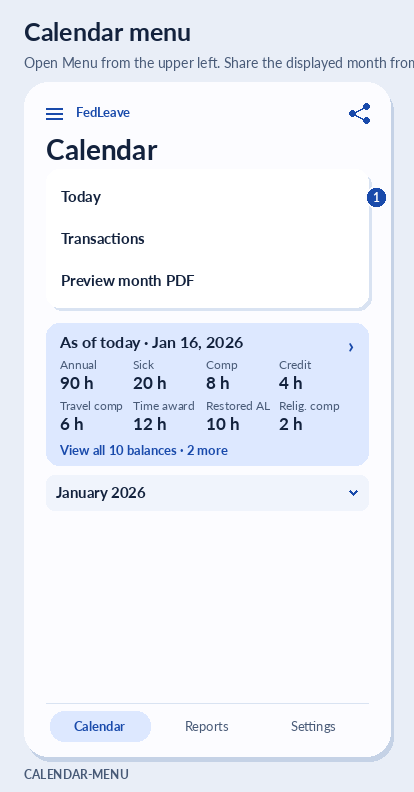
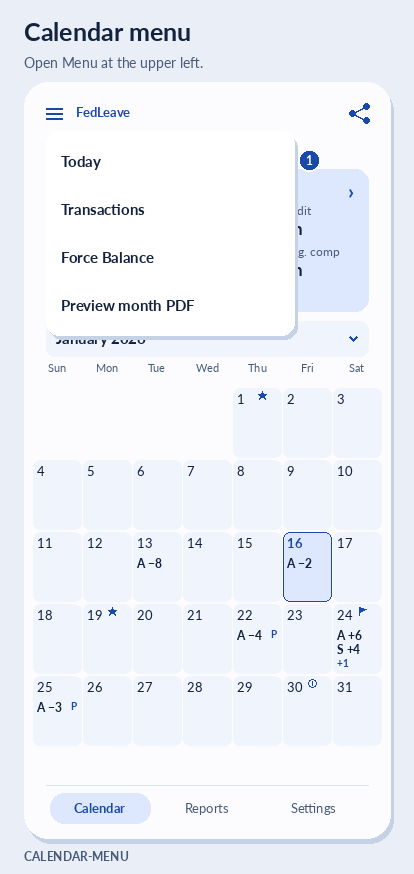
Add Force Balance to the Android Calendar dropdown specification
Show the four menu commands in order in an anchored overlay with full-size touch targets. Route Force Balance from Calendar and leave-year maintenance through the standard Android date picker, category and target form, and a confirmation review.

Define exact dated adjustment, zero-target, same-date replacement, stale review and original-history behavior. Add annotated interaction mockups and update the ledger acceptance cases.

Explain the distinct manual payroll review flow in the Settings chapter so the owner can decide whether to keep the action.

diff --git a/android/specification/artwork/mockups/render.py b/android/specification/artwork/mockups/render.py
@@ -108,6 +108,8 @@ class Screen:
                 if label == nav:
                     self.box(center - 50, y + 3, center + 50, y + 33, SELECTED, 14)
                 self.text(center, y + 18, label, 13, PRIMARY if label == nav else MUTED, label == nav, "mm")
+        if menu := self.screen.get("dropdown_menu"):
+            self.menu_panel(menu)
         self.text(self.x, self.bottom + 11, self.screen["id"], 12, MUTED, bold=True)
 
     def toolbar(self, actions):
@@ -204,18 +206,16 @@ class Screen:
         self.cursor += 47
 
     def menu_panel(self, item):
-        top = self.cursor
-        entries = item["entries"]
-        height = len(entries) * 42 + 12
-        self.box(self.left + 3, top + 3, self.inner_right + 3, top + height + 3, LINE, 13)
-        self.box(self.left, top, self.inner_right, top + height, "#FFFFFF", 13)
-        for index, label in enumerate(entries):
-            y = top + 6 + index * 42
-            if label == item.get("highlight"):
-                self.box(self.left + 6, y, self.inner_right - 6, y + 40, SELECTED)
-            self.text(self.left + 15, y + 21, label, 15, INK, True, "lm")
-        self.mark(item.get("note"), top + 28)
-        self.cursor += height + 16
+        top = self.top + 49
+        right = self.left + min(248, self.width)
+        row_height = 48
+        height = len(item["entries"]) * row_height + 12
+        self.box(self.left + 3, top + 4, right + 3, top + height + 4, "#C5D2E6", 13)
+        self.box(self.left, top, right, top + height, "#FFFFFF", 13)
+        for index, label in enumerate(item["entries"]):
+            center_y = top + 6 + (index + 0.5) * row_height
+            self.text(self.left + 15, center_y, label, 15, INK, True, "lm")
+        self.mark(item.get("note"), top + 29, x=right + 15)
 
     def document_preview(self, item):
         with Image.open(MOCKUPS / item["file"]) as source:

diff --git a/android/specification/verification/acceptance-tests.md b/android/specification/verification/acceptance-tests.md
@@ -60,7 +60,7 @@ Substitute each date in the expected-results table for the balance command. The 
 | `T-CAL-BAL-08` | At normal text size use the ten values on the Calendar mockup. Check the preview, tap the card, and scroll to Paid parental leave and FMLA remaining. Confirm Jan 24, cancel a different choice, and return to Calendar. Repeat with exactly eight values, one unavailable value, and large text on a compact handset. | Eight labeled values appear in two rows at the reference size and **View all 10 balances · 2 more** is spoken and visible. All ten values appear in one scrollable list. The card and list match the confirmed cutoff and Cancel preserves it. With exactly eight visible there is no overflow count. Larger text preserves full amounts and exposes any additional hidden count. |
 | `T-CAL-NAV-01` | Select January 13 in the balance picker, navigate to February in the main calendar, and choose an editing day. | The calendar follows the navigation. The panel continues showing January 13 and its figures until the user confirms another balance date or uses **Menu > Today**. |
 | `T-CAL-MARK-01` | Seed the Calendar fixture and local 2026 holidays. Inspect Jan 1 and 19, Jan 24 and Jan 30 in the grid and date picker. Browse to Jan 9, 2027 and open day detail. Check default and large text, TalkBack and the three marker visibility settings. In an isolated developer fixture put a synthetic holiday on Jan 9 and set payday offset to zero to produce all four events on the same day. | Each of the four shapes is distinct and appears to the right of the date. Jan 9 has both closing markers, shows the event names and leaves the balance cutoff unchanged. All four fit in the collision fixture. Their spoken descriptions stay ordered, day actions stay reachable, and markers are independent of extra leave entries. The main Calendar hides only the disabled event and equivalent accessible label. The picker always identifies pay-period ends and their shortcuts, including when that type is hidden in the main Calendar. |
-| `T-CAL-MENU-01` | Browse to a different month and choose a dated balance. Open and dismiss the upper-left menu, then reopen it and use Today. | The menu shows Today, Transactions and Preview month PDF. Dismissal preserves month and cutoff. Today resets both. Menu remains readable and actionable with larger text and TalkBack. |
+| `T-CAL-MENU-01` | Browse to a different month and choose a dated balance. Open the upper-left menu. Dismiss it with outside tap and system Back, then reopen it and use Today. | The menu shows Today, Transactions, Force Balance and Preview month PDF. The anchored dropdown overlays Calendar and preserves month and cutoff when dismissed. Focus returns to Menu. Today resets both. Menu remains readable and actionable with larger text and TalkBack. |
 | `T-CAL-SHARE-01` | Display January with Today fixed to Jan 16. Set the balance card to Jan 13 and tap the top-right Share icon. Verify that this tap generates the PDF and opens the system Sharesheet immediately after preparation. Open the attachment in a test receiver. On a handset with compatible email and messaging targets, inspect the attachment in each app's draft using synthetic data. Compare the received bytes with the generated file and compare the rendered page with the desktop PDF from the same fixture and page size. Repeat from the optional preview, with a different month, and with cancellation or a simulated render failure. | One tap opens the native Sharesheet with one readable `application/pdf` attachment named `fedleave-2026-01.pdf` for January. No format, destination, or print dialog is shown by FedLeave. The receiving app opens the same bytes that FedLeave generated. The landscape page matches the desktop grid, markers, pay-period tables, Today balances of 90 h annual and 20 h sick, applicable year-end figures, and abbreviations. The other month shares its own report. Cancellation or failure preserves both selections and ledger bytes. A failed render offers Retry without opening the Sharesheet. |
 
 After the existing-year review and navigation cases, compare a snapshot of the canonical datastore before and after. The date picker and balance calculations leave its contents intact. [Calendar requirements](../chapters/01-calendar/01-02-balances.md#requirements)
@@ -95,7 +95,7 @@ Create variants using the reproduction instructions in the Calendar section. Kee
 | `T-CAL-DAY-02` | From the Calendar fixture, add an individual 1 h planned annual entry on Jan 22 and a separate 2 h denied entry on the same date. Check Jan 21 and Jan 22 and inspect history. | Jan 21 remains 90 h annual. Jan 22 projects 85 h. All three Jan 22 rows are identifiable by status and ID. The denied row does not affect the balance. Cancelled and legacy voided rows are also ineffective. |
 | `T-CAL-HISTORY-01` | Add genuine rows on Jan 9 and Jan 10, 2027 in the adjacent Calendar ledgers. Open history for exactly those dates. Inspect row details and sorting, then choose an empty range and an inverted range. | Both boundary dates appear once with their transactions in initial date/ID order. Details retain source, status, comment and ID. System activity is labeled. Empty results are explicit and an invalid range is rejected. History writes nothing. |
 | `T-CAL-TX-01` | In the Editable day fixture correct the 1 h annual row to 2 h by its ID and reason. Try a date outside its leave year. Cancel deletion, then confirm deleting the corrected record. | The selected ID survives correction and annual changes from 89 h to 88 h. The other annual ID remains at 2 h. An out-of-year correction or cancelled deletion preserves the files. Confirmed deletion removes only the chosen row and gives 90 h annual. Generated carryover rows lead to their source. |
-| `T-CAL-FORCE-01` | Start with 20 h annual and zero annual accrual or use. Adjust Feb 1 to 5 h with a reason, then repeat for 8 h and 20 h. Try a PPL target. | The first adjustment records a 15 h decrease. The second leaves one 12 h decrease and 8 h as of Feb 1. The third yields 20 h with no forced row. PPL requires its own dated workflow. |
+| `T-CAL-FORCE-01` | Start with 20 h annual and zero annual accrual or use. Open **Menu → Force Balance**, choose Feb 1 in the Android date picker, choose annual and enter 5 h and a reason. Cancel one review, then apply and repeat for 8 h and 20 h. Test the Settings route, an invalid date, invalid hours, disabled PPL and FMLA, and an edit that makes a review stale. Repeat a zero target on an accrual day. | The first confirmed adjustment records a 15 h decrease. The second leaves one 12 h decrease and 8 h as of Feb 1. The third yields 20 h with no forced row. A zero target is exact even with due accrual. Jan 31 and unrelated IDs, entries and comments remain intact. Both routes use the same review. Cancel and invalid or stale input preserve the ledger. The Calendar returns to its previous month and balance cutoff. |
 | `T-YEAR-ACC-01` | In the Accrual fixture set annual accrual to 6 h effective Jul 12, 2026. Verify Jul 11, Jul 25, and Jan 9, 2027. Apply the same rate change again and query a copy with missing automatic rows. In a fresh copy use the same editor to change sick to 3 h effective Jul 12. | Jul 11 earns 4 h while Jul 25 and Jan 9 earn 6 h annual after the annual change. The change updates 13 annual rows and the year closes at annual 140 h and sick 124 h. The sick-only copy closes at annual 114 h and sick 111 h. Repeat leaves one effective change for that category and date. Dated reads synthesize missing accruals without writing JSON. |
 | `T-YEAR-CAP-01` | With the Carryover fixture and Today Jan 16, add an Oct 1 planned 8 h annual use. Check Today and open the year-end forecast. Compare with desktop `use-or-lose --year 2026`. | Today shows 280 h annual. Forecast through Jan 9, 2027 shows 272 h annual, 240 h cap and projected carryover, and 32 h potentially lost. Both date labels remain visible in their respective views. The forecast writes nothing. |
 | `T-EXP-01` | Use an 8 h expiring comp lot with July 1 last eligible date. Query July 1 and 2 under a forfeiture rule, then under a warning rule. In a separate fixture allocate 6 h use among same-dated lots of 4 and 5 h with the same deadline and IDs in that order. Use a nonexpiring award in another copy and trigger an urgent reminder twice on the same day. | On July 1 the lot has 8 h and can be used. Forfeiture removes the 8 h on July 2. Warning-only still reports the left-over quantity without a forfeiture entry, and none of the expired hours are available. Allocation consumes 4 h then 2 h, leaving 3 h. Nonexpiring awards yield no upcoming deadline. Repeated reads preserve the ledger. The urgent reminder appears once on the same local date. |

diff --git a/android/specification/verification/feature-parity.md b/android/specification/verification/feature-parity.md
@@ -16,7 +16,7 @@ This matrix compares Android with the [pinned desktop build](../specification.md
 | `CAL-BAL-08` | The desktop window has room for more balance categories. | Preview eight and give one-tap access to the full scrollable list and date controls. | [BALANCES-TODAY](../artwork/mockups/calendar-compact-main.png), [BALANCES-ALL](../artwork/mockups/calendar-compact-main.png) | [T-CAL-BAL-08](acceptance-tests.md#calendar-acceptance-cases) | [Balance ordering and overflow](../chapters/01-calendar/01-02-balances.md#preview-and-full-list). |
 | `CAL-NAV-01` | **Previous**, **Next**, and month selection browse the calendar. Only the date selector and **Today** change the selected balance date. | Calendar navigation preserves the selected balance date. | [CALENDAR-MONTH](../artwork/mockups/calendar-compact-main.png), [CALENDAR-MONTH-SELECTOR](../artwork/mockups/calendar-compact-month.png), [BALANCES-DATED](../artwork/mockups/calendar-date-states.png) | [T-CAL-NAV-01](acceptance-tests.md#calendar-acceptance-cases) | [Selected Calendar](../chapters/01-calendar/01-01-main-screen.md). |
 | `CAL-MARK-01` | Desktop Calendar distinguishes holidays, paydays and period ends and stores the leave-year closing date. | Place four distinct event shapes to the right of the date. Preserve concurrent markers and give their full descriptions in the editor and TalkBack. | [CALENDAR-MONTH](../artwork/mockups/calendar-compact-main.png), [CALENDAR-YEAR-END](../artwork/mockups/calendar-markers.png), [CALENDAR-DAY-MARKERS](../artwork/mockups/calendar-markers.png), [BALANCE-PICKER-DAY-LIST](../artwork/mockups/calendar-compact-month.png) | [T-CAL-MARK-01](acceptance-tests.md#calendar-acceptance-cases) | [Marker specification](../chapters/01-calendar/01-04-date-markers.md). |
-| `CAL-MENU-01` | Desktop Calendar groups navigation and report commands in menus and shows a marker legend. | A top-left menu opens Today, Transactions and month PDF preview. | [CALENDAR-MENU](../artwork/mockups/calendar-menus.png) | [T-CAL-MENU-01](acceptance-tests.md#calendar-acceptance-cases) | — |
+| `CAL-MENU-01` | Desktop Calendar groups navigation and report commands in menus and shows a marker legend. | A top-left menu opens Today, Transactions, Force Balance and month PDF preview. | [CALENDAR-MENU](../artwork/mockups/calendar-menus.png) | [T-CAL-MENU-01](acceptance-tests.md#calendar-acceptance-cases) | — |
 | `CAL-SHARE-01` | Desktop Calendar's **Save Month as PDF** prints the displayed month through its landscape report renderer. | The top-right Share icon generates that calendar PDF and sends it as an attachment through the native Sharesheet. | [CALENDAR-PDF-PREVIEW](../artwork/mockups/calendar-pdf-share.png), [CALENDAR-PDF-SHARE](../artwork/mockups/calendar-pdf-share.png) | [T-CAL-SHARE-01](acceptance-tests.md#calendar-acceptance-cases) | [Desktop PDF reference](../chapters/01-calendar/01-05-menu-and-pdf.md#share-the-displayed-month). |
 
 ### Desktop evidence for these rows
@@ -41,7 +41,7 @@ The [ledger requirements](../chapters/02-ledger/02-01-ledger-and-leave-years.md)
 | `CAL-DAY-02` | The desktop CLI can record individual transactions with direction and status. | Add or schedule a separate entry from a date. | [ENTRY-ADD](../artwork/mockups/calendar-edit.png) | [T-CAL-DAY-02](acceptance-tests.md#ledger-and-leave-year-acceptance) | — |
 | `CAL-HISTORY-01` | Calendar's **View Leave Transactions** filters a sortable listing by inclusive date range across years. | Phone-sized list with date-range controls and transaction details. | [TRANSACTIONS](../artwork/mockups/calendar-history.png), [TRANSACTION-DETAIL](../artwork/mockups/calendar-history.png) | [T-CAL-HISTORY-01](acceptance-tests.md#ledger-and-leave-year-acceptance) | Sorting control placement. |
 | `CAL-TX-01` | The desktop CLI corrects one transaction in place or deletes it using the command named `void`. | Review and confirm correction or deletion of the selected record. | [TRANSACTION-DETAIL](../artwork/mockups/calendar-history.png), [TRANSACTION-CORRECT](../artwork/mockups/calendar-history.png), [TRANSACTION-DELETE](../artwork/mockups/calendar-history.png) | [T-CAL-TX-01](acceptance-tests.md#ledger-and-leave-year-acceptance) | — |
-| `CAL-FORCE-01` | **Force Leave Balance** writes a dated adjustment with an explanation. | Maintenance action that previews and applies the required difference. | [BALANCE-ADJUST](../artwork/mockups/settings-adjustments.png) | [T-CAL-FORCE-01](acceptance-tests.md#ledger-and-leave-year-acceptance) | — |
+| `CAL-FORCE-01` | **Force Leave Balance** writes a dated adjustment with an explanation. | Calendar menu and maintenance share a standard date picker, category and target form, and reviewed adjustment. | [FORCE-BALANCE-DATE](../artwork/mockups/calendar-force-balance-form.png), [FORCE-BALANCE-FORM](../artwork/mockups/calendar-force-balance-form.png), [FORCE-BALANCE-TYPES](../artwork/mockups/calendar-force-balance-review.png), [FORCE-BALANCE-REVIEW](../artwork/mockups/calendar-force-balance-review.png) | [T-CAL-FORCE-01](acceptance-tests.md#ledger-and-leave-year-acceptance) | — |
 | `YEAR-ACC-01` | **Change Accrual** changes annual rates by effective date. The core supports sick rates too. | Edit annual or sick rates in one reviewed flow. | [ACCRUAL-CHANGE](../artwork/mockups/settings-adjustments.png) | [T-YEAR-ACC-01](acceptance-tests.md#ledger-and-leave-year-acceptance) | — |
 | `YEAR-CAP-01` | The desktop Calendar and CLI show projected annual excess above the carryover cap. | Dated year-end forecast with annual cap and excess. | [YEAR-END-FORECAST](../artwork/mockups/settings-adjustments.png) | [T-YEAR-CAP-01](acceptance-tests.md#ledger-and-leave-year-acceptance) | Forecast placement on phone. |
 | `EXP-01` | **Expiring Leave Status** shows deadlines and lot usage guidance. Preferences set reminder thresholds. | Expiration list, lot details, and urgent in-app reminder. | [EXPIRATION-LIST](../artwork/mockups/settings-expiration.png), [LOT-DETAIL](../artwork/mockups/settings-expiration.png), [EXPIRATION-REMINDER](../artwork/mockups/settings-expiration.png) | [T-EXP-01](acceptance-tests.md#ledger-and-leave-year-acceptance) | — |

diff --git a/android/specification/chapters/06-delivery/06-02-implementation-milestones.md b/android/specification/chapters/06-delivery/06-02-implementation-milestones.md
@@ -12,12 +12,12 @@ Start each milestone or subset with a [self-contained implementation brief](../0
 | I02. Bridge packaging experiment | I01 | Build the smallest Python library call on ARM64 and the development emulator. Verify offline startup, native packaging, size and timings, and a dated balance with the desktop fixture. Confirm or revisit Chaquopy and the API floor. [Core experiment](../04-architecture/04-01-core-and-compatibility.md#proof-of-concept-exit-conditions) |
 | I03. Read-only core boundary | I02 | Extract the cohesive Calendar, period and balance operations behind the desktop adapters. Characterize extraction with fixed dates and golden outputs. Compare desktop CLI interfaces and run the existing tests. |
 | I04. Private JSON store | I02–I03 | Implement app-private storage, canonical schema reads, one writer and complete candidate recovery. Import fixture input through a developer test entry. Verify no mutation from a read, resume after interruption, and check update and process-restart behavior. [Storage](../04-architecture/04-02-device-storage.md) |
-| I05. Calendar navigation and dated balances | I03–I04 | Implement the Calendar main screen, bottom navigation, balance picker, menu and date markers, Today and period close, calendar day inspection, and unavailable feedback. I08, I09 and I15 connect the final editing, Transactions, and PDF actions respectively. Pass `T-CAL-BAL-01` through `08`, `T-CAL-NAV-01`, `T-CAL-MARK-01`, and `T-CAL-MENU-01`. |
+| I05. Calendar navigation and dated balances | I03–I04 | Implement the Calendar main screen, bottom navigation, balance picker, menu and date markers, Today and period close, calendar day inspection, and unavailable feedback. I08, I09, I10 and I15 connect editing, Transactions, Force Balance and PDF actions respectively. Pass `T-CAL-BAL-01` through `08`, `T-CAL-NAV-01`, `T-CAL-MARK-01`, and `T-CAL-MENU-01`. |
 | I06. First use and manual year setup | I04–I05 | Implement welcome, schedule, start-of-year balances and prompting for missing dates in I06-01. Add the Today choice, dated targets and desktop-compatible verification in I06-02. Require cancellation, exactly-once setup and midnight review cases. [Today setup brief](../../../implementation/briefs/I06-02-today-balances.md) |
 | I07. Carryover creation | I06 | Implement adjacent predecessor review, policy caps, fingerprint and validation for applying a new year. Verify time boundaries, stale previews, lots carried once and unchanged source ledgers. |
 | I08. Edits and individual entries | I04–I06 | Implement edit day and single entry including status, quarter-hour entry, confirmation, comment preservation, system-row protection, and draft recovery. Pass the day editing cases. |
 | I09. History and transaction corrections | I08 | Add inclusive date range, sorting, source and ID detail, and separate correction and deletion reviews. Verify unchanged unrelated IDs and generated records. |
-| I10. Maintenance and reconciliation | I07–I09 | Start with a linked-chain preview and recovery. In a separate checkpoint add opening repair, force balance and annual and sick accrual rates if the work needs a split. Verify reviewed generations and source updates with the ledger cases. |
+| I10. Maintenance and reconciliation | I07–I09 | Start with a linked-chain preview and recovery. In a separate checkpoint add opening repair, the shared Force Balance workflow from Calendar and maintenance, and annual and sick accrual rates if the work needs a split. Verify reviewed generations and source updates with the ledger cases. |
 | I11. Expirations and lot extensions | I07–I10 | Implement expiration list and thresholds, lot history, and eligible extensions. Verify inclusive deadlines, warning and disposition, and repeat reads. Link reminders to lot detail. |
 | I12. PPL, FMLA, and accounting preferences | I09–I11 | Implement grant/use and overlapping-window behavior, review additional FMLA, history and tour settings, and unknown capacity. Run the parental fixture cases with legacy compatibility. Split settings from parental flows if needed. |
 | I13. Report list, summary, Seasonality and Heatmap | I05, I09 | Implement report navigation, year selection and coherent data, then the date and category filters with accessible source details. Add the shared full-screen chart route as a separate I13 checkpoint. Pass `T-REP-EXPAND-01` for the delivered chart types and repeat it as I14 and I15 add chart families. Verify all three report families and late or cancelled results. Run the Seasonality half of `T-REP-HISTORY-01`. |

diff --git a/android/specification/chapters/01-calendar/01-06-force-balance.md b/android/specification/chapters/01-calendar/01-06-force-balance.md
@@ -1,0 +1,26 @@
+# Chapter 01.06 · Force Balance
+
+Use **Calendar → Menu → Force Balance** when you know the correct balance for one leave type on a date. The adjustment brings that date to the entered target while keeping the original clocking entries. **Settings → Accounting and leave years → Leave-year maintenance → Force Balance** opens the same form. [Calendar menu](01-05-menu-and-pdf.md#open-the-calendar-menu) · [Desktop command](../../../../src/fedleave/commands/forced_balance.py)
+
+![Android date picker and Force Balance form with leave type, current balance, target and reason](../../artwork/mockups/calendar-force-balance-form.png)
+
+| Callout | Interaction |
+| --- | --- |
+| 1–2 | Start with the normal Android Material date picker. Default the pending date to Today when it belongs to a valid ledger. Allow calendar browsing and standard date entry. Confirm with **OK**. Cancel leaves the previous date or returns to Calendar on first entry. Tapping **Effective date** in the form reopens the picker. |
+| 3–4 | Choose a balance-tracked leave type after selecting the date. Show the current balance as of that date. Enter the exact target in hours and give a reason. Keep the target blank until the user enters it. An explicit zero is valid. **Review adjustment** uses the selected date and type. |
+
+![Leave-type chooser and review with current and target balance, signed difference and explicit apply](../../artwork/mockups/calendar-force-balance-review.png)
+
+| Callout | Interaction |
+| --- | --- |
+| 1 | Selecting a leave type returns to the form and loads its dated balance. Cancel retains the prior choice. |
+| 2–3 | Show the selected year and date, current and target values, the increase or decrease to record and the reason. Explain that later balances can change. **Back to adjustment** retains the draft. **Apply adjustment** confirms the review once. |
+
+## Validate and publish the adjustment
+
+- Use the standard Material 3 modal date picker and convert its selected day to `LocalDate` before looking up the inclusive leave-year range. A date outside a valid existing year leaves the form open with an explanation. PPL, FMLA, and usage-only types are handled through their own records. Accept a finite, nonnegative target in the configured hour increment and a nonblank reason. Keep quotes and punctuation as ledger text. [Android date picker](https://developer.android.com/develop/ui/compose/components/datepickers)
+- `CAL-FORCE-01` uses a canonical read-only snapshot as of the effective date with all due accruals calculated in memory. Preview the current displayed balance, the target, and the signed difference that the app would store. On repeat, remove only the existing effective `forced-balance` row for that leave year, date and category from the candidate and calculate the new difference from the resulting unadjusted balance. Show the new stored difference and any replaced row if the check differs from the visible current-to-target change.
+- For a nonzero difference write one reconciled transaction with `source: forced-balance`, `direction: forced_increase` or `forced_decrease`, the absolute hour difference, the selected date, and the reason. When the target matches the unadjusted balance, remove the prior adjustment if it exists and create no new row. Preserve unrelated rows, IDs and comments. Show any expiration provenance or affected linked-year warning, and use the existing carryover review for downstream updates.
+- Preview and Cancel make no writes. Revalidate the reviewed store and target under the single writer before applying. A changed store requires a refreshed preview and confirmation. Verify the resulting dated balance before publishing a complete validated candidate. On failure keep the draft and ledger. On success show the confirmed date, leave type and balance, refresh the result and return to the initiating screen with its month and selected balance cutoff preserved. [Storage and recovery](../04-architecture/04-02-device-storage.md#write-and-recovery-model) · [Acceptance case](../../verification/acceptance-tests.md#ledger-and-leave-year-acceptance)
+
+The date picker mockup illustrates standard controls. Follow the native Android layout for the device and locale. Rebuild the two boards with `python android/specification/artwork/mockups/render.py android/specification/artwork/mockups/calendar-force-balance.json`.

diff --git a/android/specification/chapters/03-reports-data/03-03-data-and-settings-screens.md b/android/specification/chapters/03-reports-data/03-03-data-and-settings-screens.md
@@ -24,12 +24,19 @@ Settings groups week and display preferences, leave-year maintenance, holiday an
 
 ## Manual payroll review
 
+This workflow is for correcting or marking one existing ledger entry as verified after you compare it with a timecard or pay statement you have open elsewhere. You read the payroll record yourself and type the verified hours. The app uses only the entries already saved in FedLeave. It does not import statements, find payroll discrepancies automatically, or reconcile an entire pay period.
+
 ![Choose a stored transaction and review the manually entered change](../../artwork/mockups/settings-reconcile.png)
 
-| Callout | Interaction and states | Requirements |
-| --- | --- | --- |
-| 1 | Open **Reconcile entry** from a transaction or day. If several entries match, choose the exact entry. | `DATA-PAYROLL-01` |
-| 2–3 | Enter the revised hours and reason, then review the selected record before saving. Cancel returns to the caller without a write. | `DATA-PAYROLL-01` |
+The example shows two separate annual leave entries on January 13. Entry `20260113-001` records 2 h and entry `20260113-002` records 1 h. If your payroll record says the first entry should be 3 h, select `20260113-001`, enter **3 h** and give the reason. The review shows **2 h → 3 h** on that one record. After confirmation, that ID records 3 h and is marked reconciled, with your explanation. The second entry stays at 1 h. Total annual leave used that day changes from 3 h to 4 h, which reduces the dated annual balance by another hour.
+
+| Callout | What the screen shows |
+| --- | --- |
+| 1 | Open **Reconcile entry** from a transaction or day. When several entries share the selected date, leave type and direction, the list shows their individual IDs and recorded hours. Choose the one you can identify in your own records. |
+| 2 | Enter the exact verified hours and reason. The review shows the chosen date, leave type, record ID and a before-and-after comparison. |
+| 3 | **Save reconciliation** updates the selected row in place and marks it reconciled. The save keeps the record ID and the other entries. Cancel returns to the caller without changing the ledger. |
+
+**Decision for review.** Keep **Reconcile entry** as a dedicated action if payroll verification is a recurring task and the reconciled status helps you distinguish entries you checked. If the useful part is changing the hours on a known entry, **Correct entry** already covers that job. Use **Force Balance** when you trust the total on a date and want one adjustment while keeping the original entries. [Ordinary correction](../02-ledger/02-01-ledger-and-leave-years.md#edit-and-review-leave) · [Force Balance](../01-calendar/01-06-force-balance.md) · [Desktop reconciliation behavior](../../../../src/fedleave/commands/transactions.py#L456)
 
 ## Calendar, holidays, and reminders
 
@@ -60,12 +67,13 @@ Settings groups week and display preferences, leave-year maintenance, holiday an
 
 ## Opening balance, balance adjustment, and accrual
 
-![Starting balance correction, verified balance adjustment, accrual change, and projected annual use-or-lose](../../artwork/mockups/settings-adjustments.png)
+![Starting balance correction, the maintenance shortcut for Force Balance, accrual change, and projected annual use-or-lose](../../artwork/mockups/settings-adjustments.png)
 
 | Callout | Interaction and states | Requirements |
 | --- | --- | --- |
 | 1 | Compare old and revised opening in an independent year. A linked year routes to source or carryover review. | `YEAR-OPEN-01` |
-| 2–3 | Select the date and input the intended adjustment or accrual rate. The accrual editor accepts annual or sick. Review the effective date, applicable hours, and reason. Keep draft on failure and show the new calculation after save. | `CAL-FORCE-01`, `YEAR-ACC-01` |
+| 2 | **Force Balance** opens the same dated form and review as the Calendar menu. [Force Balance screens](../01-calendar/01-06-force-balance.md) | `CAL-FORCE-01` |
+| 3 | Choose an effective date and annual or sick accrual rate. Review the effective date, applicable hours, and reason. Keep the draft on failure. | `YEAR-ACC-01` |
 | 4 | Read the dedicated use-or-lose calculation with its forecast close, carryover cap and excess. It does not alter the data. | `YEAR-CAP-01` |
 
 ## Expiration and approved deadlines

diff --git a/android/implementation/briefs/milestone-inputs.md b/android/implementation/briefs/milestone-inputs.md
@@ -22,7 +22,7 @@ Use the [ledger acceptance tables](../../specification/verification/acceptance-t
 | I07 · Carryover | [Year setup and carryover](../../specification/chapters/02-ledger/02-01-ledger-and-leave-years.md#start-or-find-a-leave-year) · [Cross-year logic](../../../src/fedleave/cross_year.py) | `T-YEAR-CARRY-01`. Give the source identity, candidate year and fingerprint contract, category reductions, stale-preview behavior, and exact carried lots. The source ledger stays byte-identical. |
 | I08 · Day editing | [Editing](../../specification/chapters/02-ledger/02-01-ledger-and-leave-years.md#edit-and-review-leave) · [Desktop transactions](../../../src/fedleave/commands/transactions.py) | `T-CAL-DAY-01`, `T-CAL-DAY-02`. Bind the I05 day route. Name the read/replace/add operations and their eligible IDs. Verify precise amounts and comments, generated-row preservation and draft behavior on failure. |
 | I09 · History and corrections | [Editing and transaction history](../../specification/chapters/02-ledger/02-01-ledger-and-leave-years.md#edit-and-review-leave) · [Desktop history](../../../src/fedleave/history.py) | `T-CAL-HISTORY-01`, `T-CAL-TX-01`. Wire Transactions and the period range route, define the inclusive sorted snapshot, and verify each correction and deletion with IDs before and after. |
-| I10 · Reconciliation and adjustments | [Accrual and closing balance behavior](../../specification/chapters/02-ledger/02-01-ledger-and-leave-years.md#accrual-caps-and-expiration) · [Maintenance mockups](../../specification/chapters/03-reports-data/03-03-data-and-settings-screens.md#data-check-carryover-and-repair) | `T-YEAR-REC-01`, `T-YEAR-OPEN-01`, `T-CAL-FORCE-01`, `T-YEAR-ACC-01`, `T-YEAR-CAP-01`. Separate a linked-chain apply from opening repair, adjustments and rate changes. Give each brief a recovery point and exact expected generations. |
+| I10 · Reconciliation and adjustments | [Accrual and closing balance behavior](../../specification/chapters/02-ledger/02-01-ledger-and-leave-years.md#accrual-caps-and-expiration) · [Maintenance mockups](../../specification/chapters/03-reports-data/03-03-data-and-settings-screens.md#data-check-carryover-and-repair) | `T-YEAR-REC-01`, `T-YEAR-OPEN-01`, `T-CAL-FORCE-01`, `T-YEAR-ACC-01`, `T-YEAR-CAP-01`. Separate a linked-chain apply from opening repair, adjustments and rate changes. Wire [Force Balance](../../specification/chapters/01-calendar/01-06-force-balance.md) from Calendar and maintenance. Give each brief a recovery point and exact expected generations. |
 | I11 · Expirations | [Expiration rules](../../specification/chapters/02-ledger/02-01-ledger-and-leave-years.md#accrual-caps-and-expiration) · [Desktop expirations](../../../src/fedleave/expirations.py) | `T-EXP-01`, `T-EXP-02`, applicable `T-PREF-REM-01`. Specify inclusive deadlines, deterministic allocation and exactly which lot fields change on an extension. Retain the lot route for reminders. |
 | I12 · Parental and accounting preferences | [PPL and FMLA](../../specification/chapters/02-ledger/02-01-ledger-and-leave-years.md#paid-parental-leave-and-fmla) · [Desktop parental core](../../../src/fedleave/parental.py) | `T-PARENT-01`, `T-PARENT-02`, `T-PREF-RULE-01`. Separate parental state from the settings editor. Verify overlapping windows, manual tracking, and incomplete history against the core. |
 

diff --git a/android/specification/chapters/02-ledger/02-01-ledger-and-leave-years.md b/android/specification/chapters/02-ledger/02-01-ledger-and-leave-years.md
@@ -45,7 +45,7 @@ Phone forms use full leave-type names, a dated heading, positive hour fields wit
 
 **CAL-TX-01 · Correct or delete an individual entry.** Scope the selection by the stored year and transaction ID so multiple entries on one date remain distinct. **Correct entry** reviews the chosen row's date, type, direction and hours with a required explanation and retains its ID. If the proposed date belongs to another leave year, explain the date restriction and let the user add to the proper year and review the original separately. **Delete entry** confirms the chosen row and removes it from the active ledger, matching the desktop command named `void`. Show the effect on dependent years and send generated entries to their source or relevant maintenance action. Revalidate the target if it changes while the review is open. [Desktop correction](../../../../src/fedleave/commands/transactions.py#L605) · [Desktop deletion](../../../../src/fedleave/commands/transactions.py#L926)
 
-**CAL-FORCE-01 · Adjust to a verified balance.** In maintenance, show the current dated balance, target, difference, and required comment. The saved adjustment records a reconciled increase or decrease. Repeating it for the same date and category replaces the previous adjustment and calculates the difference from the unadjusted result. If the target equals that result there is no adjustment row. Restrict the operation to eligible categories and a finite nonnegative target. PPL and FMLA changes go through their dated records. [Desktop force balance](../../../../src/fedleave/commands/forced_balance.py)
+**CAL-FORCE-01 · Force a verified balance.** Open from the Calendar menu or leave-year maintenance. Choose an effective date, a leave type and a target in hours, then review the required difference before applying. The adjustment keeps original history and uses the selected date. [Force Balance rules and screens](../01-calendar/01-06-force-balance.md)
 
 An advanced **Reconcile entry** action lets the user enter and review a payroll change with its reason and source. If several rows match the date, category and direction, the user picks the exact transaction. [Payroll reconciliation command](../../../../src/fedleave/commands/transactions.py#L456) · [Phone payroll flow](../03-reports-data/03-03-data-and-settings-screens.md#manual-payroll-review)
 

diff --git a/android/implementation/briefs/I05-calendar.md b/android/implementation/briefs/I05-calendar.md
@@ -10,7 +10,7 @@
 | I05-02 Calendar, navigation, and markers | `calendar/CalendarScreen.kt`, `calendar/CalendarDateMarkers.kt`, device tests in `app/src/androidTest/` | Deliver the real Calendar destination, menu, month selection, responsive grid/list, and read-only day detail. The next task adds the balance route and picker. |
 | I05-03 Balance detail and date selection | `calendar/BalanceScreen.kt`, `calendar/BalanceDatePicker.kt`, JVM and device tests | Connect the card, all balances, period activity, nearby ends, and date selection to I05-01. Run the combined Calendar suite. |
 
-These are proposed relative filenames. Before assignment replace them with the actual package paths and identify the symbols for the I01 navigation host, I03 queries, and I04 repository and injection hook. Update only the Calendar feature, its route registration, touched string resources, test fixtures and tests. Reuse I04's app-private reads and the shared core. I05 provides a read-only day route with date, events and activity. I08 wires editing and saving to that route. I09 connects Transactions to its real destination. I15 connects **Preview month PDF** and the top-right Share action. In interim builds expose actions only once their destinations are wired. Record those milestone-specific gaps in the mockup comparison; I08, I09 and I15 verify the final combined controls.
+These are proposed relative filenames. Before assignment replace them with the actual package paths and identify the symbols for the I01 navigation host, I03 queries, and I04 repository and injection hook. Update only the Calendar feature, its route registration, touched string resources, test fixtures and tests. Reuse I04's app-private reads and the shared core. I05 provides a read-only day route with date, events and activity. I08 wires editing and saving to that route. I09 connects Transactions to its real destination. I10 connects **Force Balance** to the shared maintenance route. I15 connects **Preview month PDF** and the top-right Share action. In interim builds expose actions only once their destinations are wired. Record those milestone-specific gaps in the mockup comparison; I08, I09 and I15 verify the final combined controls.
 
 ## State and event contract
 

diff --git a/android/specification/chapters/01-calendar/01-05-menu-and-pdf.md b/android/specification/chapters/01-calendar/01-05-menu-and-pdf.md
@@ -4,11 +4,14 @@ Calendar uses the **Menu** icon at the upper left and the **Share calendar PDF**
 
 ## Open the Calendar menu
 
-![Calendar menu open showing Today, Transactions, and Preview month PDF](../../artwork/mockups/calendar-menus.png)
+![Calendar menu open showing Today, Transactions, Force Balance, and Preview month PDF](../../artwork/mockups/calendar-menus.png)
 
 | Callout | Interaction | Requirements |
 | --- | --- | --- |
-| 1 | The Menu icon opens three commands. **Today** resets the calendar month and balance date. **Transactions** opens history. **Preview month PDF** opens the displayed month's PDF for inspection. | `CAL-MENU-01`, `CAL-BAL-05`, `CAL-HISTORY-01` |
+| 1 | The Menu icon opens four commands. **Today** resets the calendar month and balance date. **Transactions** opens history. **Force Balance** opens the effective date picker for a dated adjustment. [Force Balance screens](01-06-force-balance.md) **Preview month PDF** opens the displayed month's PDF for inspection. | `CAL-MENU-01`, `CAL-BAL-05`, `CAL-HISTORY-01`, `CAL-FORCE-01` |
+
+Anchor a Material 3 dropdown just below the upper-left Menu icon. Show a rounded, elevated surface about 248 dp wide at the reference phone size, with text-only rows left aligned in the order shown. Use at least 48 dp per row. Allow the width to fit localized labels and keep it within the available screen. The dropdown overlays Calendar in place. Tapping outside, pressing Back or reopening Menu dismisses it and restores focus to Menu. Selecting a command closes the dropdown before performing that action. Use the same layout and readable contrast in light and dark mode.
+
 
 The grid uses the available space below the balances and month controls. Open a day to read the schedule events and leave entries. [Date markers](01-04-date-markers.md)
 

diff --git a/android/specification/specification.md b/android/specification/specification.md
@@ -23,7 +23,7 @@ For a visual review, start with the [Calendar mockups](chapters/01-calendar/01-0
 
 | Chapter | Content |
 | --- | --- |
-| 01. Calendar | [01.01 Main screen](chapters/01-calendar/01-01-main-screen.md) · [01.02 Balances](chapters/01-calendar/01-02-balances.md) · [01.03 Navigation and screen states](chapters/01-calendar/01-03-navigation-and-screens.md) · [01.04 Date markers](chapters/01-calendar/01-04-date-markers.md) · [01.05 Menu and PDF](chapters/01-calendar/01-05-menu-and-pdf.md) |
+| 01. Calendar | [01.01 Main screen](chapters/01-calendar/01-01-main-screen.md) · [01.02 Balances](chapters/01-calendar/01-02-balances.md) · [01.03 Navigation and screen states](chapters/01-calendar/01-03-navigation-and-screens.md) · [01.04 Date markers](chapters/01-calendar/01-04-date-markers.md) · [01.05 Menu and PDF](chapters/01-calendar/01-05-menu-and-pdf.md) · [01.06 Force Balance](chapters/01-calendar/01-06-force-balance.md) |
 | 02. Ledger | [02.01 Ledger and leave years](chapters/02-ledger/02-01-ledger-and-leave-years.md) |
 | 03. Reports, data, and preferences | [03.01 Behavior and requirements](chapters/03-reports-data/03-01-reports-data-and-preferences.md) · [03.02 Report screens](chapters/03-reports-data/03-02-report-screens.md) · [03.03 Data and settings screens](chapters/03-reports-data/03-03-data-and-settings-screens.md) |
 | 04. Architecture | [04.01 Shared core and compatibility](chapters/04-architecture/04-01-core-and-compatibility.md) · [04.02 Device storage, backups, and sharing](chapters/04-architecture/04-02-device-storage.md) |

diff --git a/passdown.md b/passdown.md
@@ -14,6 +14,8 @@ Analytics charts open a [full-screen landscape view](android/specification/chapt
 
 The [Analytics history mockups](android/specification/chapters/03-reports-data/03-02-report-screens.md#analytics-with-one-six-or-eleven-months) show one, six, and eleven months in Seasonality and Cumulative Usage. The [full-year Heatmap](android/specification/chapters/03-reports-data/03-02-report-screens.md#entire-leave-year-in-the-heatmap) shows every date at once in landscape and all months in a scrollable portrait view. [History checkpoint](android/specification/passdowns/22-analytics-history-mockups.md)
 
+The Calendar menu offers [Force Balance](android/specification/chapters/01-calendar/01-06-force-balance.md). I10 adds the date, leave type, target and adjustment review to the shared maintenance workflow. [Force Balance checkpoint](android/specification/passdowns/23-force-balance-menu.md)
+
 Close implementation milestones through the [QA gates and retest loop](android/specification/chapters/05-quality/05-02-quality-gates.md). Use the [QA report template](android/qa/reports/template.md) and link the separate AI review.
 
 [Organization checkpoint](android/specification/passdowns/18-project-organization.md) records the chapter moves, review destinations, and smaller-model implementation briefs.
